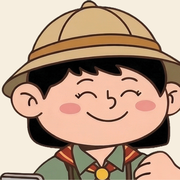
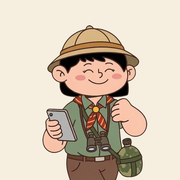
휴대폰 메뉴의 베이지 사각형 잔상 제거, 앱 아이콘 비율 조정
Claude-Session: https://claude.ai/code/session_01FNzemNFgTuVvz9F28kBAks

diff --git a/index.html b/index.html
@@ -17,8 +17,8 @@
 <meta property="og:locale" content="ko_KR">
 <meta name="twitter:card" content="summary_large_image">
 <meta name="twitter:image" content="https://oji-yonsei.github.io/og.png">
-<link rel="icon" type="image/png" href="favicon.png">
-<link rel="apple-touch-icon" href="apple-touch-icon.png">
+<link rel="icon" type="image/png" href="favicon.png?v=2">
+<link rel="apple-touch-icon" href="apple-touch-icon.png?v=2">
 <style>*,*::before,*::after{box-sizing:border-box}body{margin:0;font-family:system-ui,-apple-system,sans-serif;font-size:14px}img{max-width:100%}[hidden]{display:none!important}:root{padding-top:env(safe-area-inset-top,0px);padding-bottom:env(safe-area-inset-bottom,0px)}</style>
 
 <meta name="claude:viewport-fit-sides" content="cover">
@@ -84,7 +84,7 @@ header.gnb .wrap{display:flex;align-items:center;gap:24px;min-height:66px}
 .logo small{display:block;font-size:11px;color:var(--muted);line-height:1.2;letter-spacing:.04em}
 nav.menu{display:flex;gap:4px;margin-left:auto;overflow-x:auto;scrollbar-width:none}
 nav.menu a{text-decoration:none;font-weight:500;font-size:14.5px;padding:8px 12px;border-radius:6px;white-space:nowrap;color:var(--ink)}
-nav.menu a:hover{background:var(--khaki-soft)}
+@media (hover:hover){nav.menu a:hover{background:var(--khaki-soft)}nav.menu a[aria-current="page"]:hover{background:none}}
 nav.menu a.cta{background:var(--accent);color:var(--surface)}
 @media (max-width:820px){
   header.gnb .wrap{flex-wrap:wrap;gap:0;min-height:0;padding-block:10px 0}
@@ -167,7 +167,7 @@ section.sec.alt{background:var(--surface);border-block:1px solid var(--line)}
 
 .view[hidden],.upload[hidden],.backup[hidden],.up-off[hidden]{display:none!important}
 section.sec.view{min-height:calc(100dvh - 110px)}
-nav.menu a[aria-current="page"]{color:var(--scarf);box-shadow:inset 0 -2px 0 var(--scarf);border-radius:0}
+nav.menu a[aria-current="page"]{color:var(--scarf);box-shadow:inset 0 -2px 0 var(--scarf);border-radius:0;background:none}
 nav.menu a.cta[aria-current="page"]{box-shadow:none;border-radius:6px;color:var(--surface)}
 .pager{display:flex;justify-content:space-between;gap:12px;margin-top:56px;padding-top:24px;border-top:1px solid var(--line);flex-wrap:wrap}
 .pager a{display:flex;flex-direction:column;text-decoration:none;padding:12px 16px;border:1px solid var(--line);border-radius:10px;background:var(--surface);min-width:180px}
